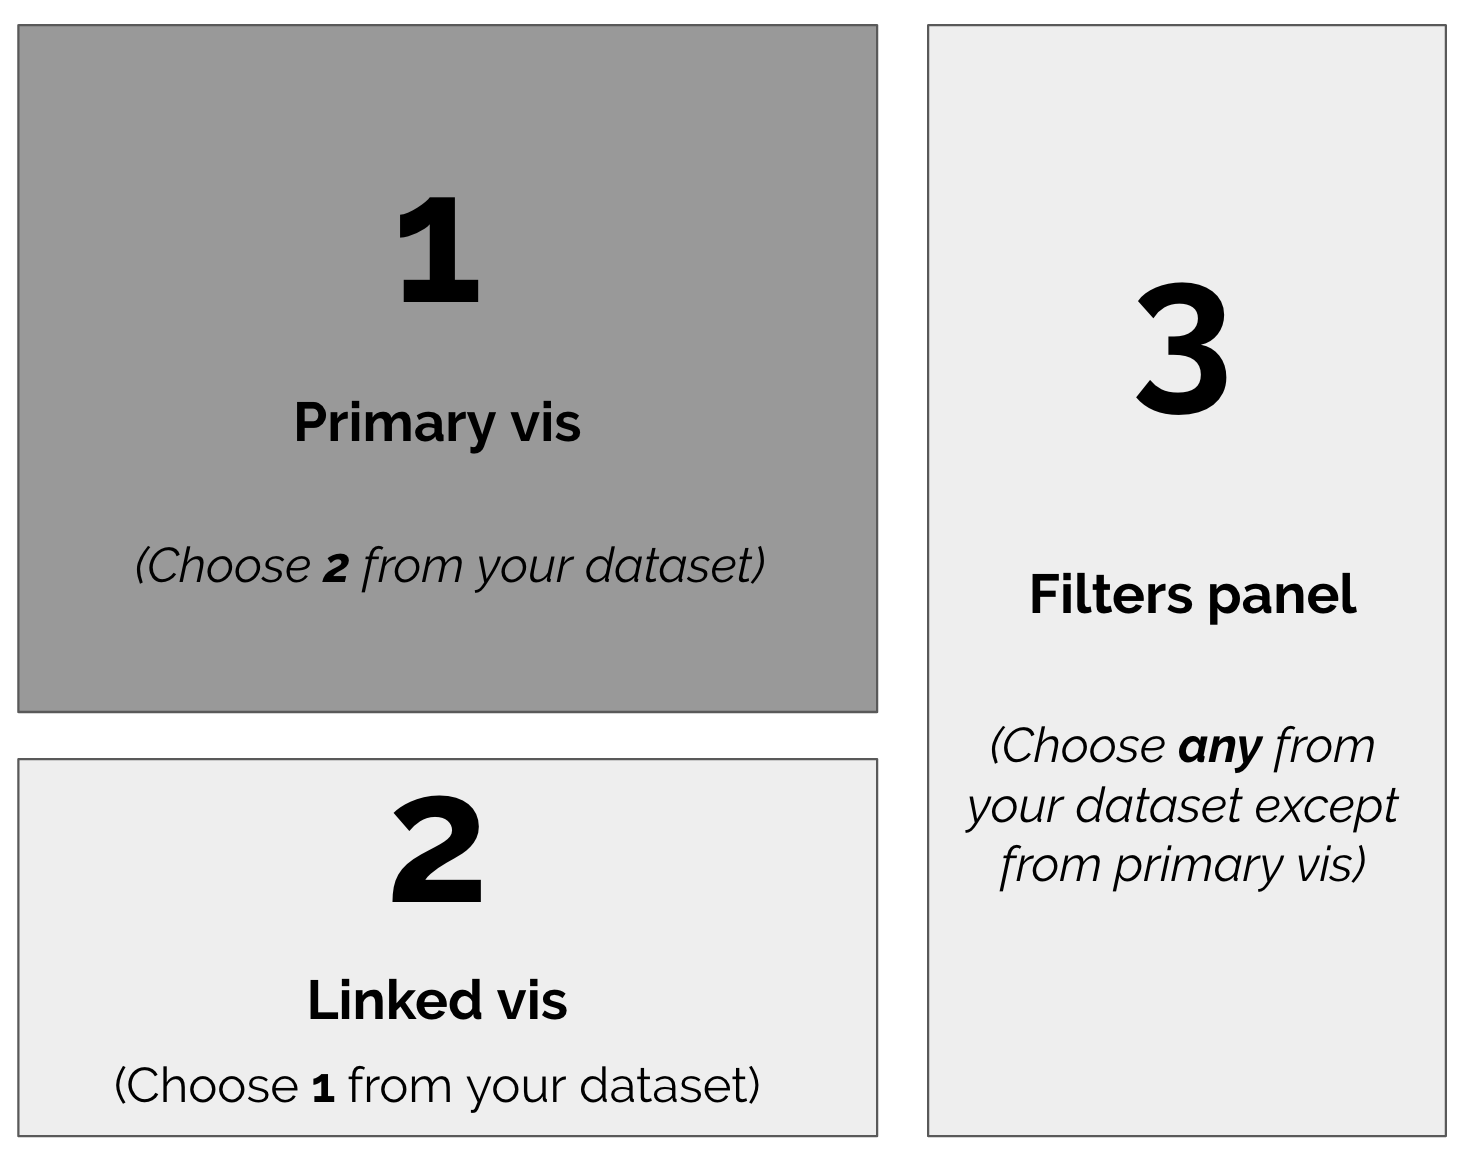
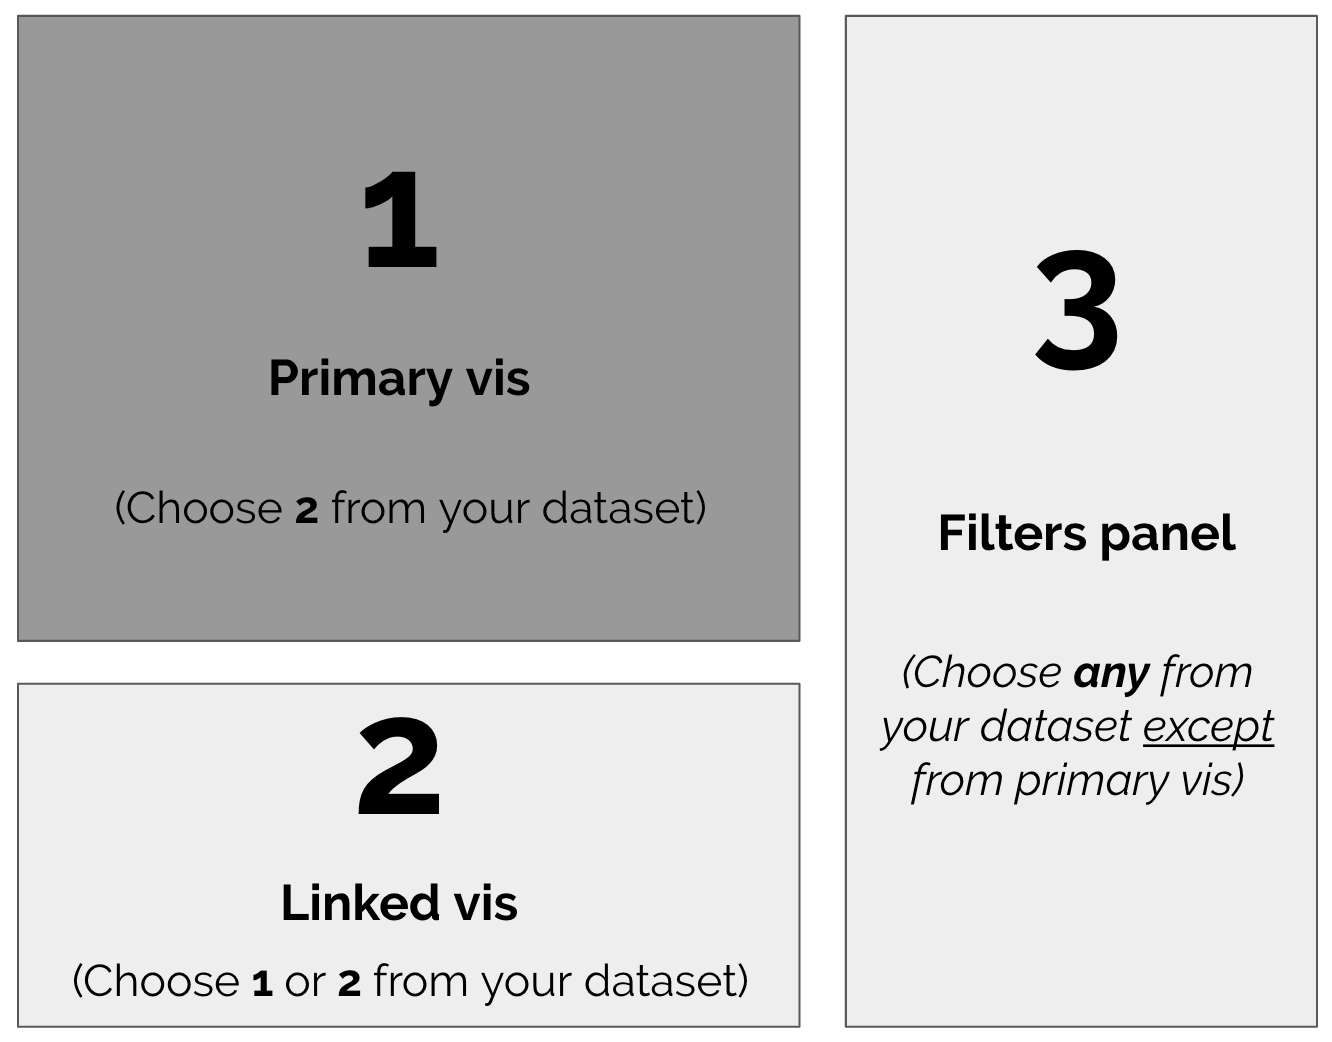
Relaxed secondary vis constraint from 2 to 1 or 2 (new layout template image); fixed the constraint alerts s.t. redirect only happens when the constraints are satisfied

diff --git a/scripts/configure.js b/scripts/configure.js
@@ -63,6 +63,7 @@
 
 var allFilters;
 function populateFilters(){
+
   allFilters = {Ordinal:[], Nominal:[], Temporal:[], Quantitative:[], 1:[],2:[],3:[]};
   console.log('populating filters');
   var tableBody = document.getElementById("data-body");
@@ -91,18 +92,18 @@ function populateFilters(){
 
   /* PLEASE UNCOMMENT */
   // // Error: User must specify 1 category for linked vis. in layout
-  // if (allFilters[2].length != 1) {
-  //    alert("You assigned " + allFilters[1].length + " category(s) to the LINKED visualization. \n\n" +
-  //       "1 category can be assigned.");
-  //   return;
-  // }
+  if (allFilters[2].length != 1 && allFilters[2].length != 2 ) {
+     alert("You assigned " + allFilters[2].length + " category(s) to the LINKED visualization. \n\n" +
+        "1 or 2 categories must be assigned.");
+    return;
+  }
   sessionStorage.filters = JSON.stringify(allFilters);
 
   var dataToTags = {};
   var tagsToData = {};
   // For each row in the data table
   $("#data-body tr").each(function() {
-    // Get the name of that data column
+    // Get the name of that data columnb
     var dataName = this.childNodes[0].textContent;
     try {
       // Get the type tag, i.e. Ordinal, Nominal, etc.
@@ -122,4 +123,7 @@ function populateFilters(){
   })
   sessionStorage.dataToTags = JSON.stringify(dataToTags);
   sessionStorage.tagsToData = JSON.stringify(tagsToData);
+
+  window.location.href = "visualization.html"
+
 }

diff --git a/configure.html b/configure.html
@@ -68,7 +68,7 @@
     <div class="row">
       <br />
       <a class="button button-primary" href="index.html">Previous</a>
-      <a class="button button-primary" href="visualization.html" onclick="populateFilters()">Next</a>
+      <button class="button button-primary" onclick="populateFilters()">Next</button>
     </div>
   </div>
 
